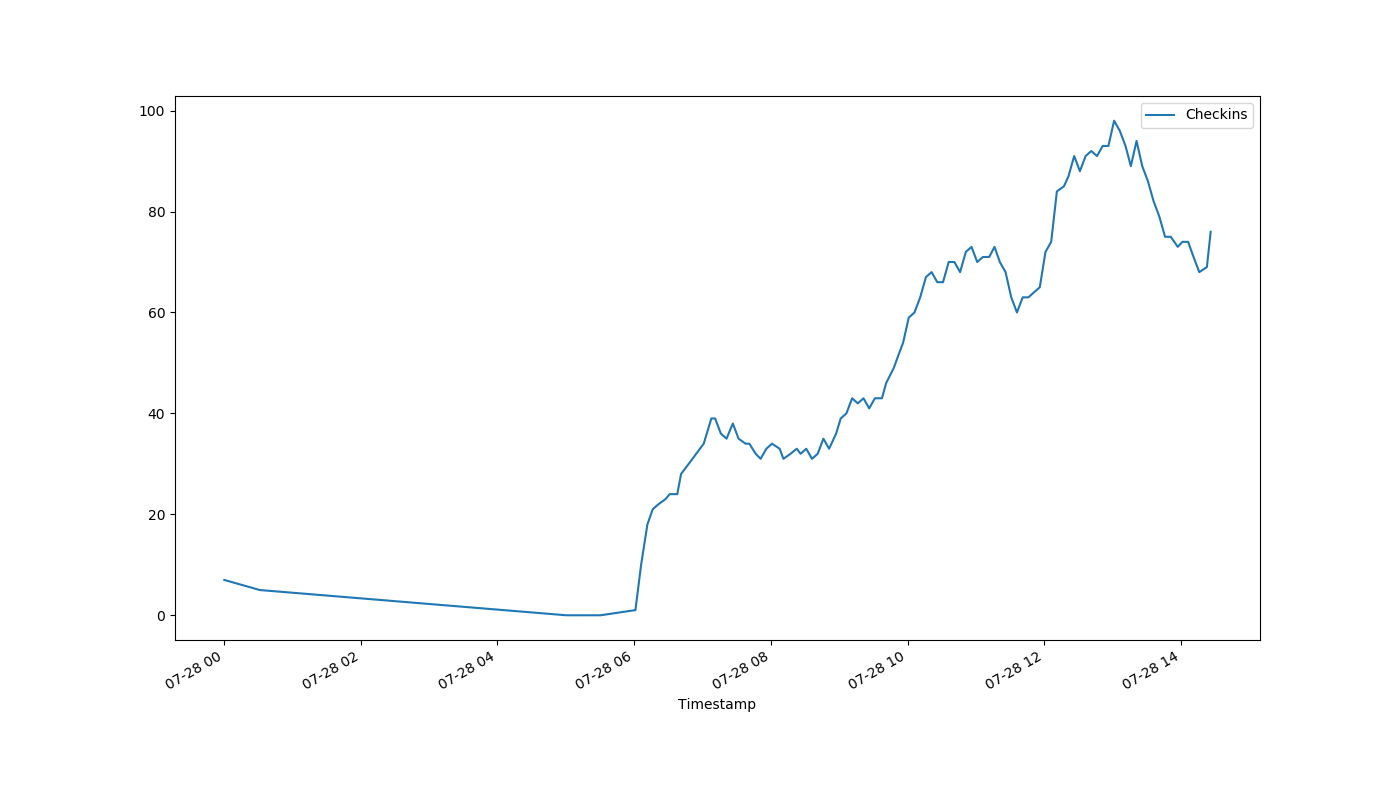
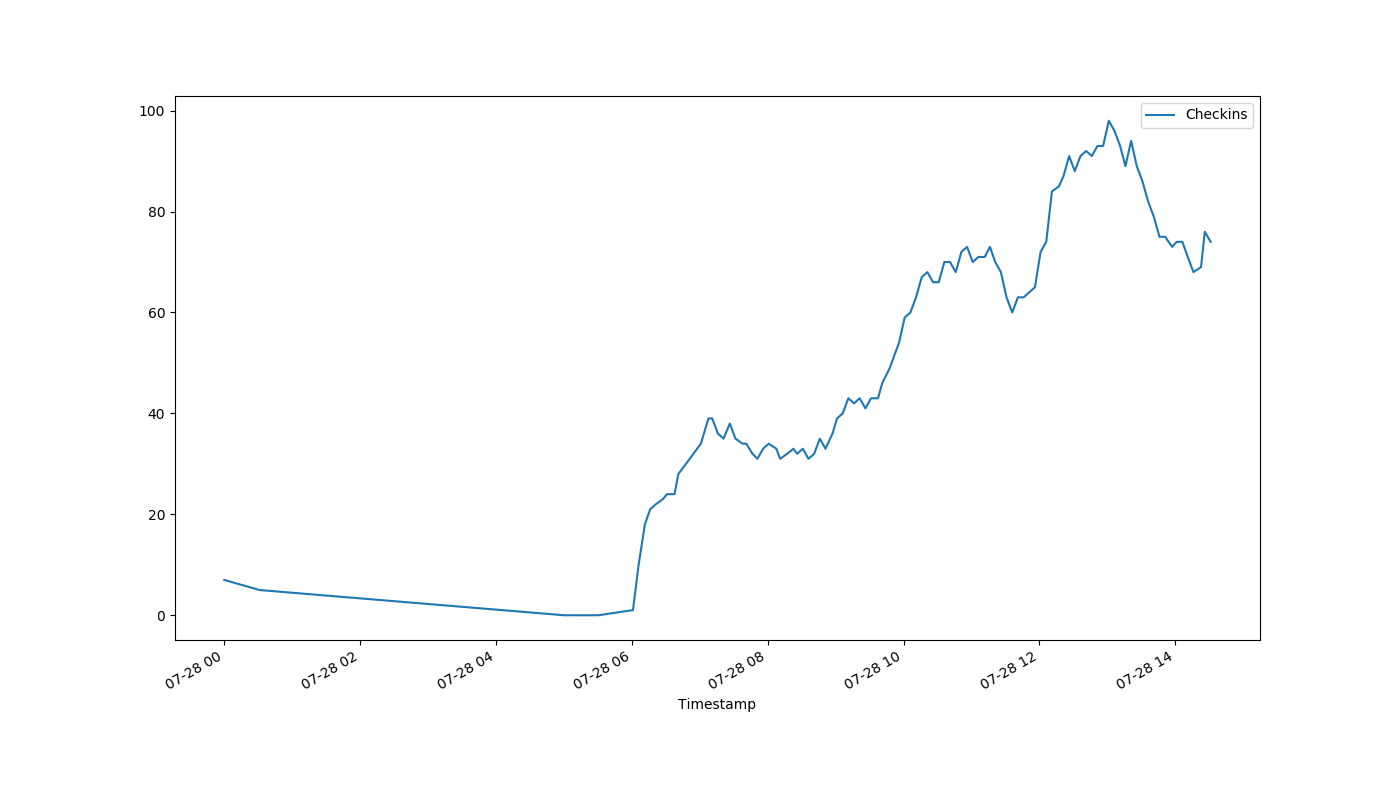
auto-Jul-28-14:32:17

diff --git a/index.html b/index.html
@@ -1,1 +1,1 @@
-<!DOCTYPE html><html><head><meta http-equiv="refresh" content="30"><link rel='stylesheet' href='holmcurrent.css'></head><body><p id='count'>76</p><div id='graph-wrap'><img id='graph' src='holmgraph-Jul-28.png'></div><p id='updated'>Last updated 14:27:05 / 14:26:05</p></body></html>
+<!DOCTYPE html><html><head><meta http-equiv="refresh" content="30"><link rel='stylesheet' href='holmcurrent.css'></head><body><p id='count'>74</p><div id='graph-wrap'><img id='graph' src='holmgraph-Jul-28.png'></div><p id='updated'>Last updated 14:32:06 / 14:31:16</p></body></html>
